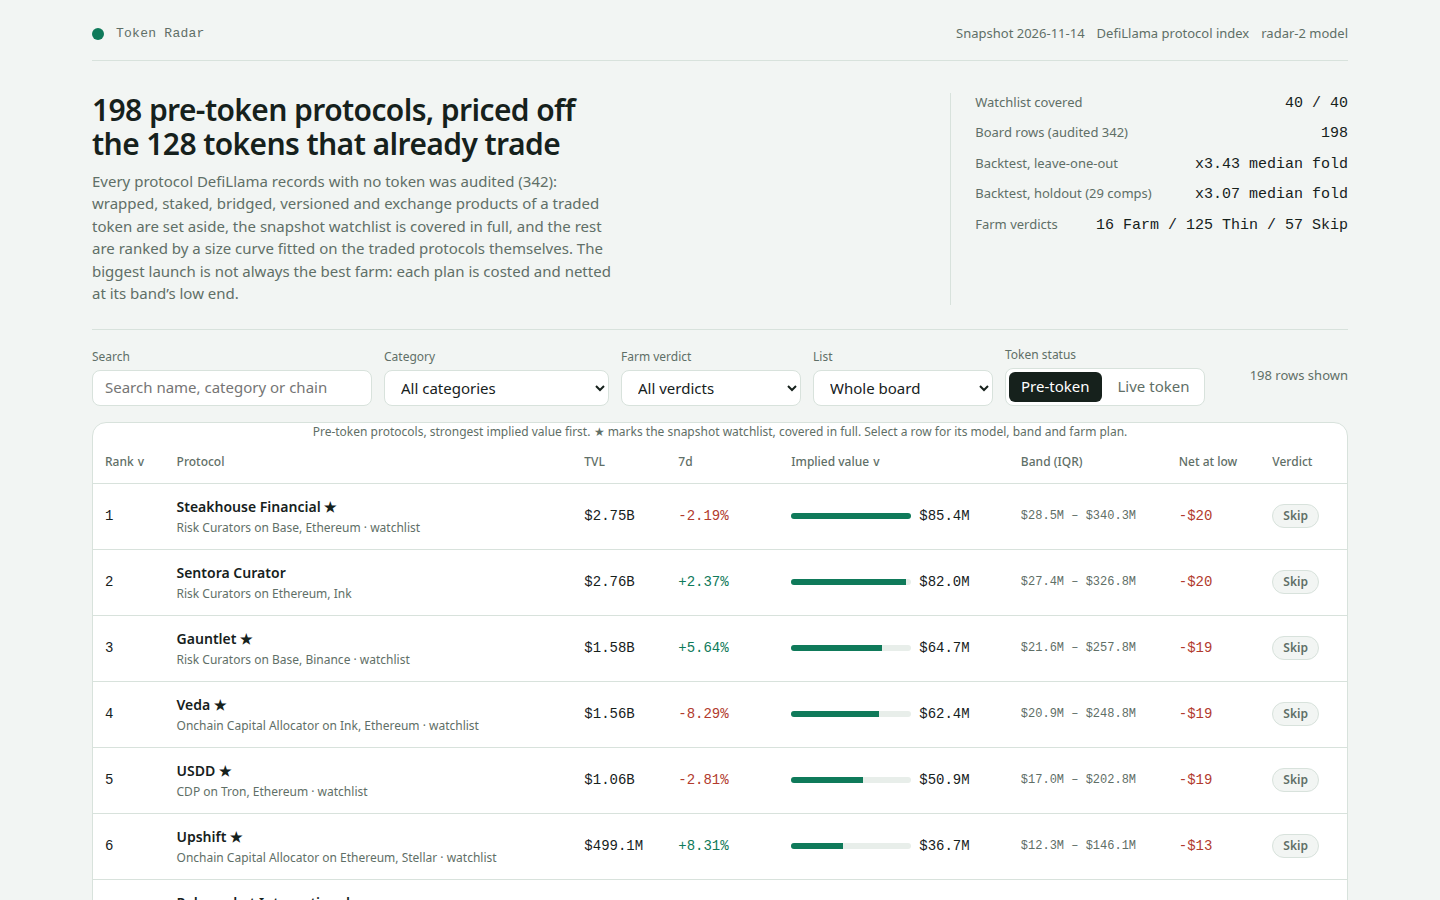
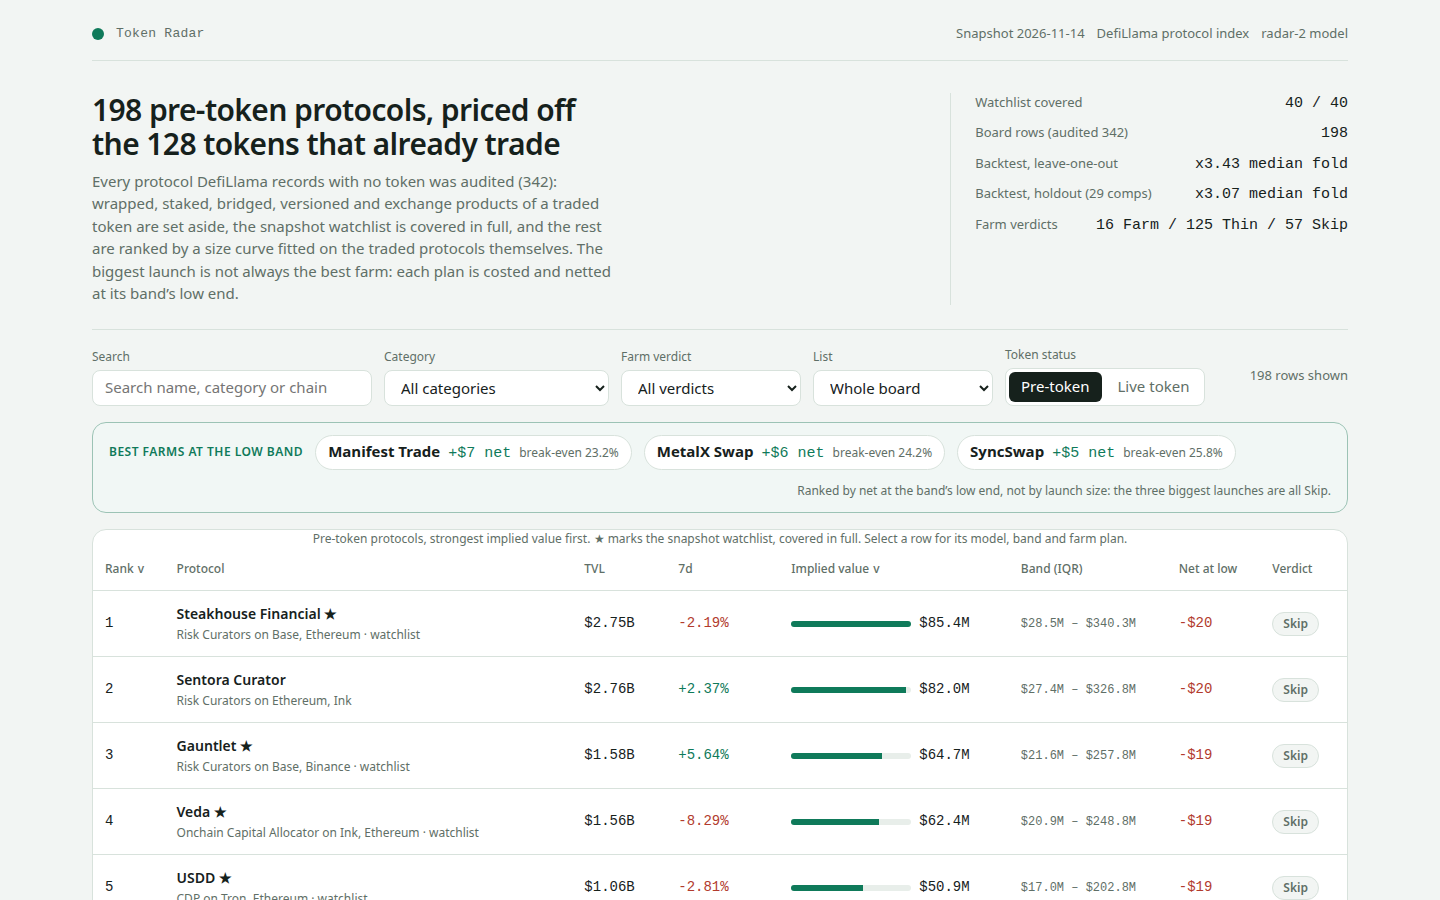
Best-farms strip on board view + refreshed screenshots

diff --git a/dashboard/app.css b/dashboard/app.css
@@ -103,6 +103,12 @@ tbody tr[data-selected="true"] { background: color-mix(in srgb, var(--accent) 8%
 .v-thin { color: var(--amber); background: color-mix(in srgb, var(--amber) 10%, var(--surface)); border-color: color-mix(in srgb, var(--amber) 40%, var(--border)); }
 .v-skip { color: var(--muted); background: var(--canvas); }
 
+.strip { display: flex; flex-wrap: wrap; align-items: center; gap: var(--step-3); margin-bottom: var(--step-4); padding: var(--step-3) var(--step-4); background: color-mix(in srgb, var(--accent) 6%, var(--surface)); border: 1px solid color-mix(in srgb, var(--accent) 30%, var(--border)); border-radius: var(--radius-panel); }
+.strip-label { font-size: 12px; font-weight: 600; letter-spacing: 0.04em; text-transform: uppercase; color: var(--accent); }
+.strip-item { display: inline-flex; align-items: baseline; gap: var(--step-2); padding: var(--step-1) var(--step-3); border: 1px solid var(--border); border-radius: 999px; background: var(--surface); }
+.strip-item:hover { border-color: var(--accent); }
+.strip-note { margin-left: auto; }
+
 .model { margin-top: var(--step-4); padding: var(--step-5); display: grid; gap: var(--step-3); }
 .formula { font-family: var(--font-num); font-size: 13px; line-height: 1.7; color: var(--muted); overflow-wrap: anywhere; }
 .empty { padding: var(--step-7) var(--step-5); text-align: center; display: grid; gap: var(--step-3); justify-items: center; }

diff --git a/dashboard/app.js b/dashboard/app.js
@@ -269,6 +269,21 @@
     );
   }
 
+  function farmStrip() {
+    var top = DATA.rows.slice().sort(function (a, b) { return b.farm.net_low_usd - a.farm.net_low_usd; }).slice(0, 3);
+    return el('section', { class: 'strip' },
+      el('span', { class: 'strip-label', text: 'Best farms at the low band' }),
+      top.map(function (r) {
+        return el('button', { type: 'button', class: 'strip-item', onclick: function () { openDetail(r.slug); } },
+          el('b', { text: r.name }),
+          el('span', { class: 'num pos', text: fmtSigned(r.farm.net_low_usd) + ' net' }),
+          el('span', { class: 'sub', text: 'break-even ' + r.farm.breakeven_pct + '%' })
+        );
+      }),
+      el('span', { class: 'sub strip-note', text: 'Ranked by net at the band\u2019s low end, not by launch size: the three biggest launches are all Skip.' })
+    );
+  }
+
   function modelPanel() {
     var fit = DATA.fit;
     var m = DATA.model;
@@ -358,6 +373,7 @@
     shell.appendChild(header());
     shell.appendChild(lede());
     shell.appendChild(controls());
+    if (state.tab === 'pre-token') shell.appendChild(farmStrip());
     shell.appendChild(state.tab === 'pre-token' ? boardTable() : liveTable());
     if (state.tab === 'pre-token') shell.appendChild(modelPanel());
     app.appendChild(shell);
